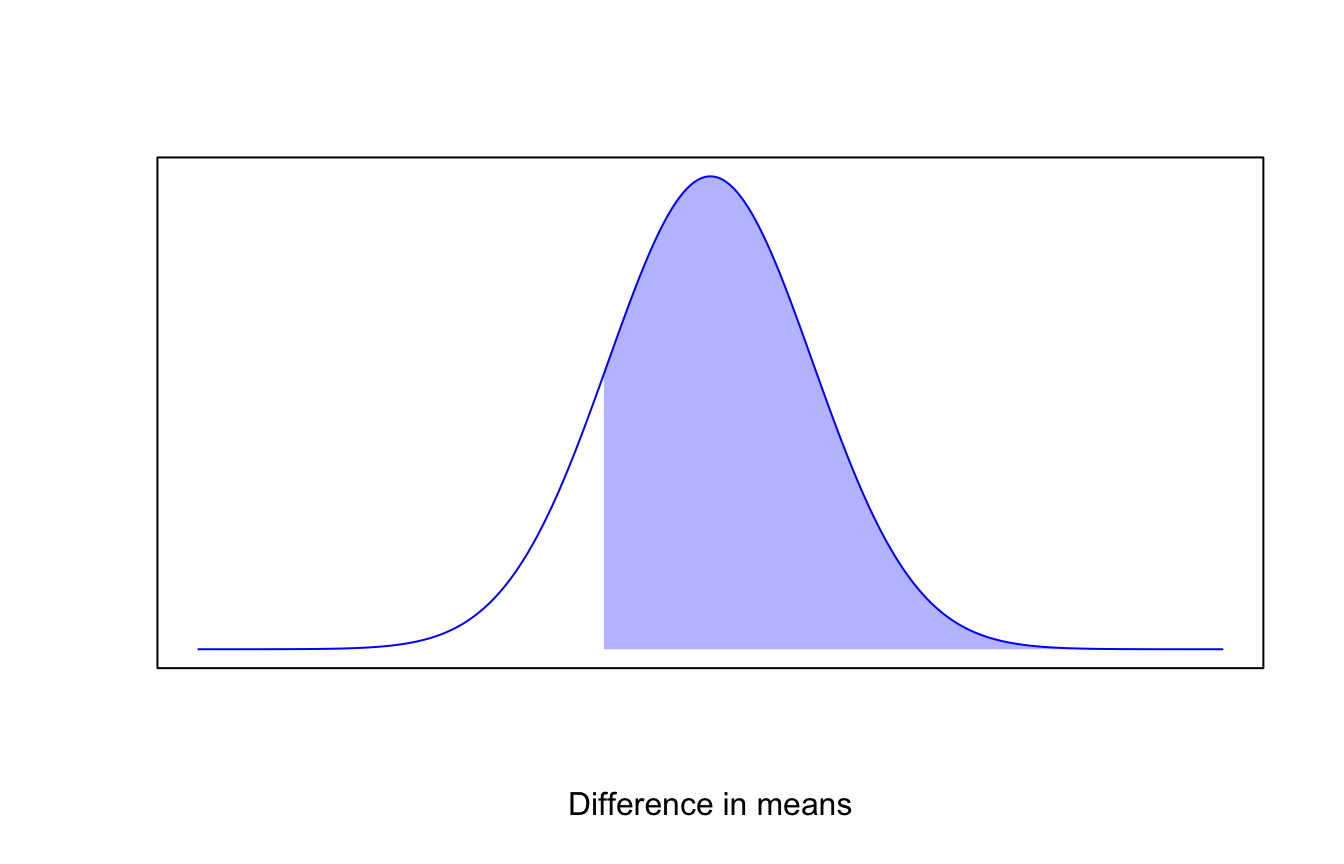
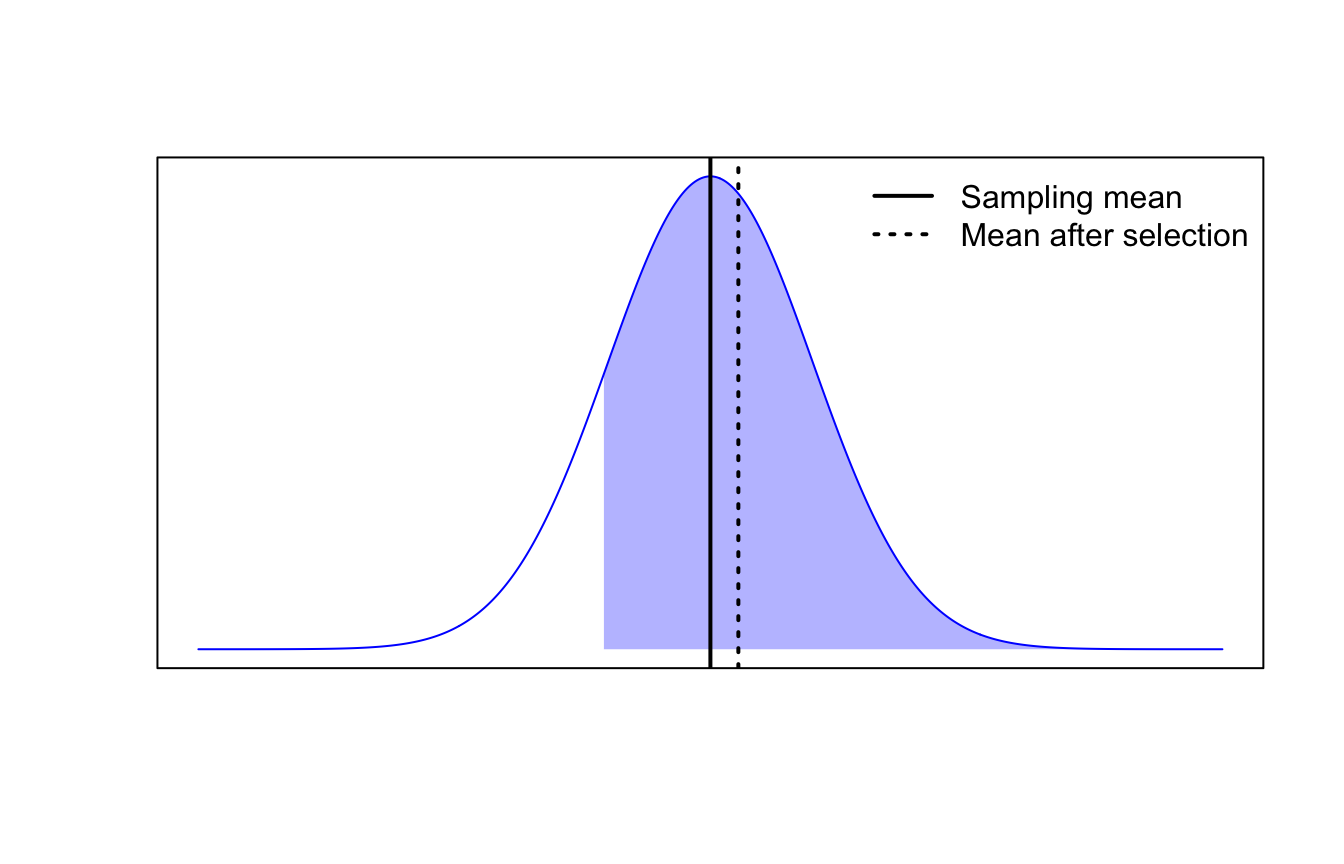
Show means on selection illustration

diff --git a/docs/index.html b/docs/index.html
@@ -232,7 +232,7 @@ window.Quarto = {
 
 <div class="quarto-listing quarto-listing-container-default" id="listing-listing">
 <div class="list quarto-listing-default">
-<div class="quarto-post image-right" data-index="0" data-categories="" data-listing-date-sort="1795582800000" data-listing-file-modified-sort="1795670708265" data-listing-date-modified-sort="NaN" data-listing-reading-time-sort="5" data-listing-word-count-sort="832">
+<div class="quarto-post image-right" data-index="0" data-categories="" data-listing-date-sort="1795582800000" data-listing-file-modified-sort="1795670904708" data-listing-date-modified-sort="NaN" data-listing-reading-time-sort="5" data-listing-word-count-sort="898">
 <div class="thumbnail"><a href="./posts/2026-11-26-winners/index.html" class="no-external">
 
 <p class="card-img-top"><img loading='lazy' src="posts/2026-11-26-winners/index_files/figure-html/unnamed-chunk-2-1.png"  class="thumbnail-image card-img"/></p>
